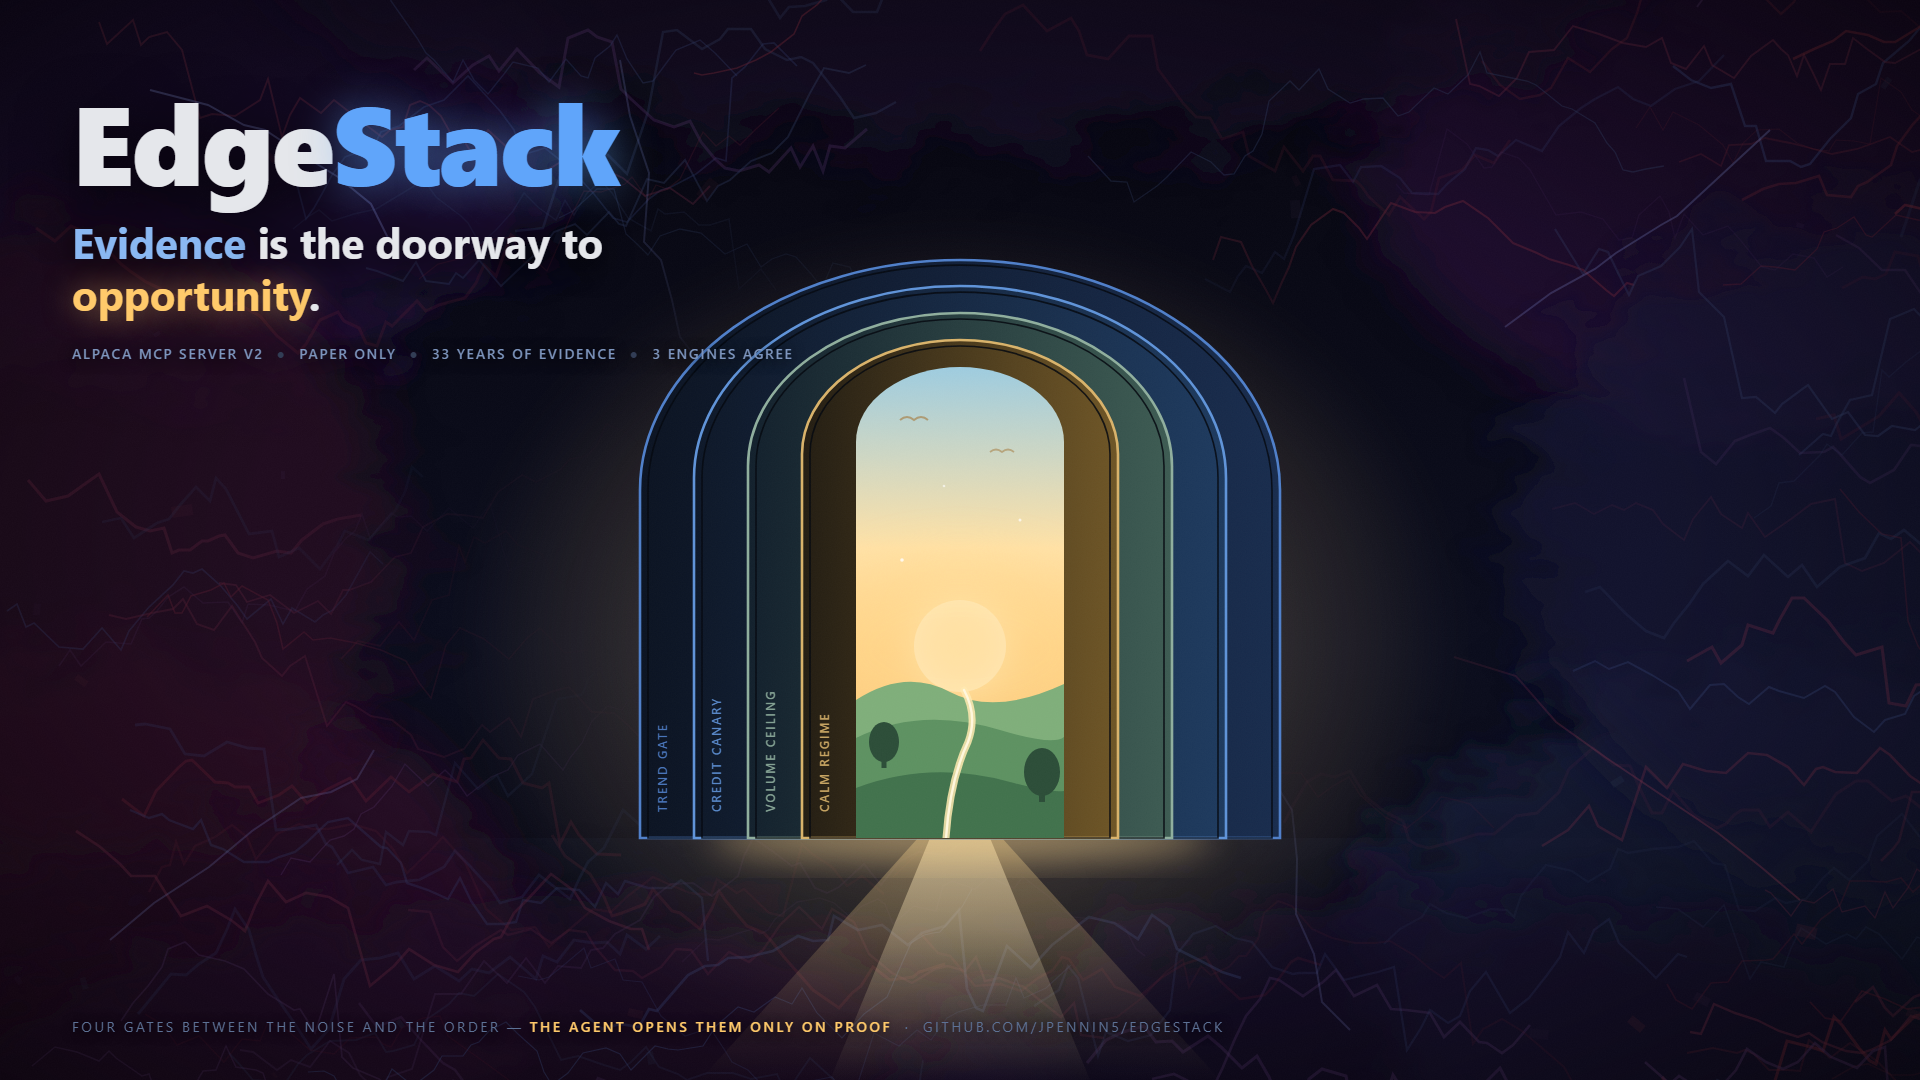
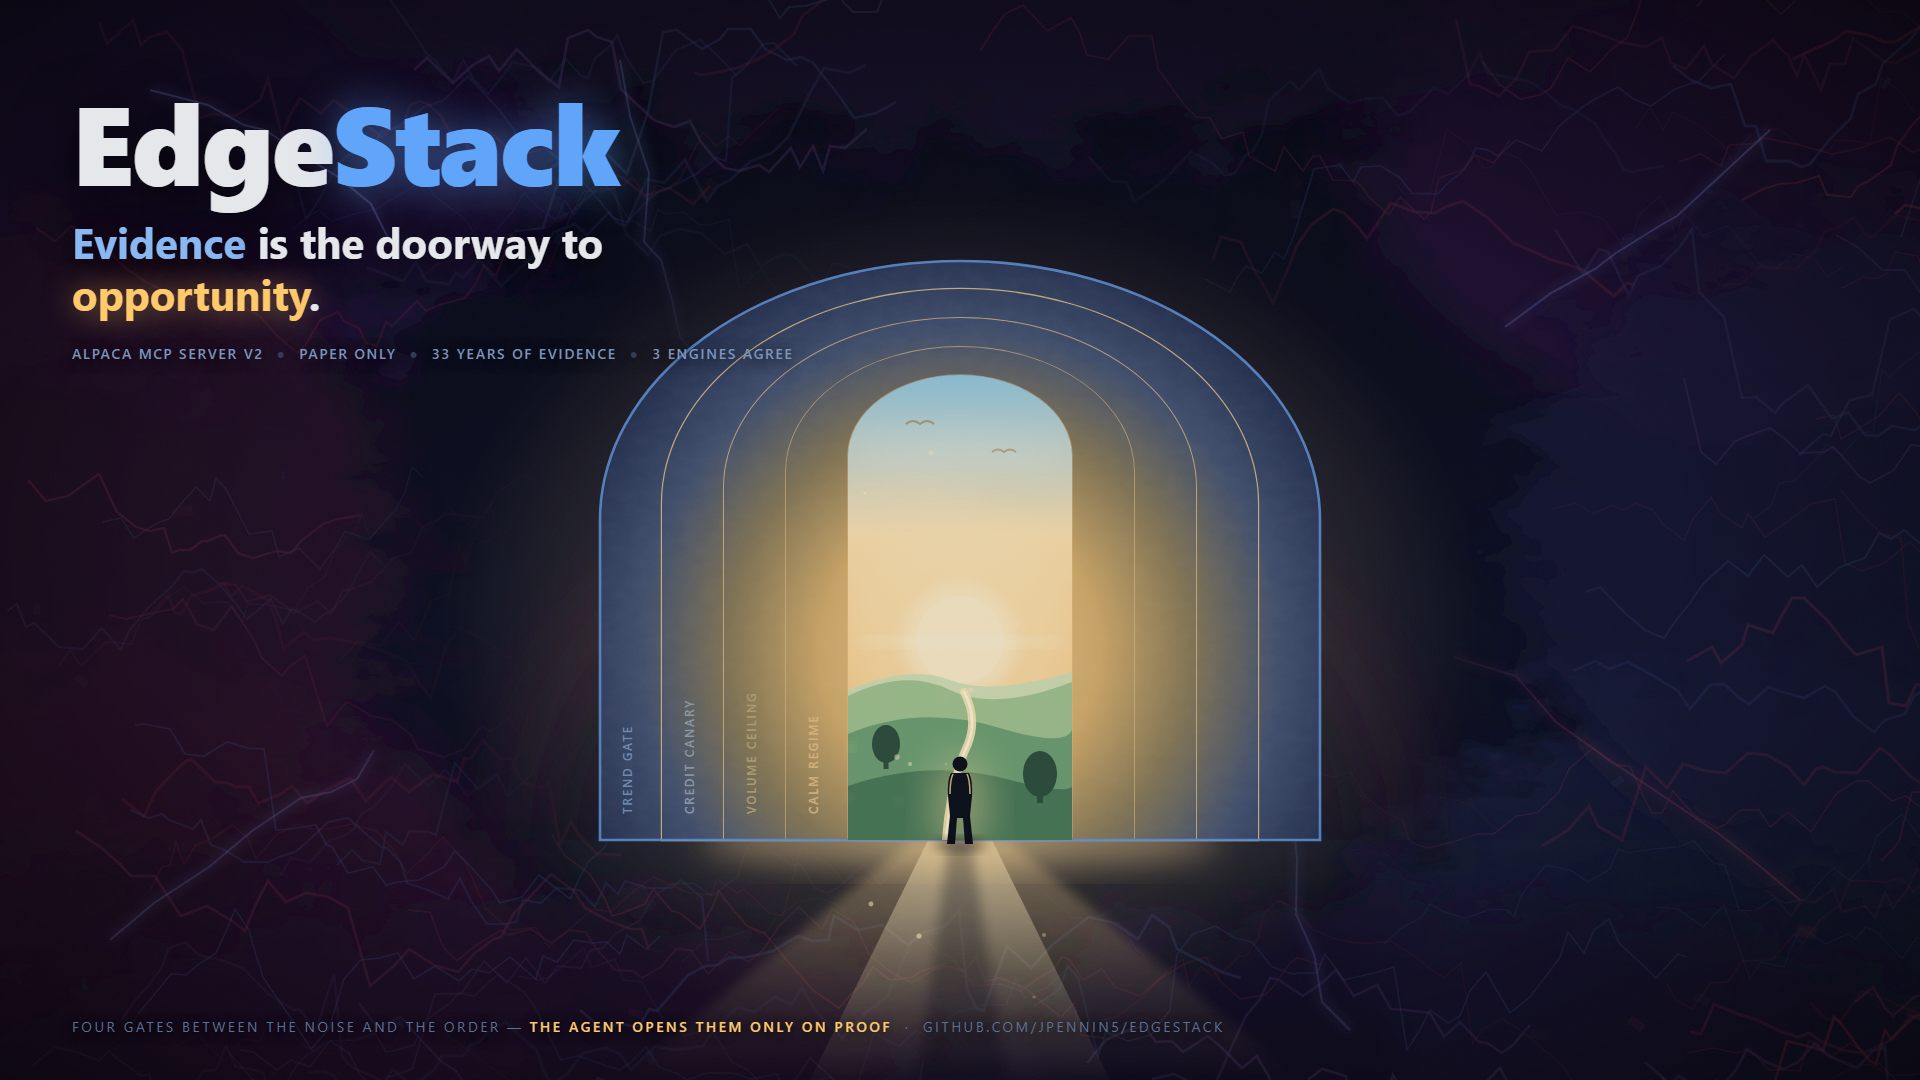
Cover: cinematic pass on the doorway scene
Same concept, poster craft: door-light rakes across the receding gate
rings (single radial tunnel gradient), glossy floor reflection, volumetric
spill with drifting motes, storm crescents hugging the arch, glowing
lightning, atmospheric valley with sun bloom and lens streak, stone
texture on the jambs, cinematic grade + vignette + grain - and a lone
figure at the threshold for monumental scale.

Changed region(s): [[0.3125, 0.2444, 0.6875, 0.9472]]

diff --git a/video/build_cover.py b/video/build_cover.py
@@ -1,10 +1,10 @@
 """Build docs/cover.png — the lablab submission hero (1920x1080).
 
-"Evidence is the doorway to opportunity": chaotic, unsettling market noise at the
-edges of the frame; a monumental doorway built from four nested gate-frames (the
-agent's real gates - trend, credit, volume, calm) cutting through the chaos; and
-through the opening, a warm promised-land valley. Pure SVG/CSS, rendered by
-headless Edge.
+"Evidence is the doorway to opportunity", cinematic pass: storm-wrapped chaos at the
+edges, a monumental four-gate portal with real tunnel depth (door-light raking across
+the receding rings), a glossy reflecting floor, volumetric light with drifting motes,
+a lush atmospheric valley through the opening, and a lone figure at the threshold for
+scale. Pure SVG/CSS, rendered by headless Edge.
 
     python video/build_cover.py
 """
@@ -19,7 +19,24 @@ EDGE = r"C:\Program Files (x86)\Microsoft\Edge\Application\msedge.exe"
 
 random.seed(11)
 
-# ---- chaos: jittery price-path scribbles + drifting shards, masked to the edges ----------
+CX, BASE = 960, 840
+INSETS = [0, 62, 124, 186, 248]          # frame boundaries; last = opening
+TOPS = [160, 206, 252, 298, 344]
+X0S = [600 + i for i in INSETS]
+X1S = [1320 - i for i in INSETS]
+GATE_NAMES = ["TREND GATE", "CREDIT CANARY", "VOLUME CEILING", "CALM REGIME"]
+GATE_INK = ["#7d9cc9", "#96abb9", "#c0ab74", "#ecc27e"]
+
+def arch(x0, x1, ytop, ybase, rev=False):
+    r = (x1 - x0) / 2
+    ry = r * 0.72
+    if not rev:
+        return (f"M {x0},{ybase} L {x0},{ytop + r:.0f} "
+                f"A {r:.0f},{ry:.0f} 0 0 1 {x1},{ytop + r:.0f} L {x1},{ybase} Z")
+    return (f"M {x1},{ybase} L {x1},{ytop + r:.0f} "
+            f"A {r:.0f},{ry:.0f} 0 0 0 {x0},{ytop + r:.0f} L {x0},{ybase} Z")
+
+# ---- chaos: price-path scribbles, shards, glowing bolts (edge-masked) --------------------
 scribbles = []
 for _ in range(96):
     edge = random.choice(["l", "r", "t", "b"])
@@ -37,10 +54,9 @@ for _ in range(96):
         y += random.uniform(-26, 26) * (3.2 if random.random() < 0.08 else 1)
         pts.append(f"{x:.0f},{y:.0f}")
     col = random.choice(["#7a2e4a", "#8f2f3f", "#40518a", "#5b3a72", "#3a4a74", "#6d2237"])
-    o = random.uniform(0.18, 0.50)
-    wdt = random.uniform(1.2, 3.2)
     scribbles.append(f"<polyline points='{' '.join(pts)}' fill='none' stroke='{col}' "
-                     f"stroke-width='{wdt:.1f}' opacity='{o:.2f}'/>")
+                     f"stroke-width='{random.uniform(1.2,3.2):.1f}' "
+                     f"opacity='{random.uniform(.18,.50):.2f}'/>")
 shards = []
 for _ in range(26):
     edge = random.choice(["l", "r", "t", "b"])
@@ -53,10 +69,9 @@ for _ in range(26):
     else:
         x, y = random.uniform(0, 1920), random.uniform(860, 1080)
     s = random.uniform(6, 22)
-    rot = random.uniform(0, 360)
-    col = random.choice(["#5f2a3d", "#31405f", "#3f2b52"])
     shards.append(f"<rect x='{x:.0f}' y='{y:.0f}' width='{s:.0f}' height='{s*0.55:.0f}' "
-                  f"transform='rotate({rot:.0f} {x:.0f} {y:.0f})' fill='{col}' "
+                  f"transform='rotate({random.uniform(0,360):.0f} {x:.0f} {y:.0f})' "
+                  f"fill='{random.choice(['#5f2a3d', '#31405f', '#3f2b52'])}' "
                   f"opacity='{random.uniform(.12,.30):.2f}'/>")
 bolts = []
 for bx, by, ang in ((150, 90, 40), (1770, 130, 140), (110, 940, -35),
@@ -68,8 +83,11 @@ for bx, by, ang in ((150, 90, 40), (1770, 130, 140), (110, 940, -35),
         y += math.sin(a) * random.uniform(28, 64) + random.uniform(-22, 22)
         pts.append(f"{x:.0f},{y:.0f}")
     col = random.choice(["#d14b66", "#8f9ae8", "#c46a8a"])
-    bolts.append(f"<polyline points='{' '.join(pts)}' fill='none' stroke='{col}' "
-                 f"stroke-width='2' opacity='{random.uniform(.28,.44):.2f}'/>")
+    p = " ".join(pts)
+    bolts.append(f"<polyline points='{p}' fill='none' stroke='{col}' stroke-width='9' "
+                 f"opacity='.16' filter='url(#blur6)'/>"
+                 f"<polyline points='{p}' fill='none' stroke='{col}' stroke-width='2' "
+                 f"opacity='{random.uniform(.30,.46):.2f}'/>")
 CHAOS_LINES = "".join(scribbles) + "".join(shards) + "".join(bolts)
 
 STORM = "".join(
@@ -81,66 +99,96 @@ STORM = "".join(
         (1450, 1120, 560, 220, "#170f2b", .75), (60, 540, 340, 320, "#2b1024", .7),
         (1870, 540, 350, 330, "#131636", .7)))
 
-# ---- the doorway: four nested gate-frames, cold blue outside -> warm gold inside ---------
-FRAMES = [  # x-inset from 640/1280, top y, edge color, engraving
-    (0,   170, "#4f7fc9", "TREND GATE"),
-    (54,  212, "#5f93d8", "CREDIT CANARY"),
-    (108, 254, "#8fae9d", "VOLUME CEILING"),
-    (162, 296, "#d8b26a", "CALM REGIME"),
-]
-OPEN_X0, OPEN_X1 = 640 + 216, 1280 - 216          # 856 .. 1064
-OPEN_TOP, BASE = 338, 838
+# storm crescents hugging the portal so the chaos wraps it
+HUG = (f"<path d='M 540,{BASE} A 420,340 0 0 1 1380,{BASE}' fill='none' stroke='#12081f' "
+       f"stroke-width='74' opacity='.55' filter='url(#blur24)'/>"
+       f"<path d='M 500,{BASE} A 460,380 0 0 1 1420,{BASE}' fill='none' stroke='#240f22' "
+       f"stroke-width='60' opacity='.45' filter='url(#blur24)'/>")
 
-def arch(x0, x1, ytop, ybase):
-    r = (x1 - x0) / 2
-    ry = r * 0.72
-    return (f"M {x0},{ybase} L {x0},{ytop + r:.0f} "
-            f"A {r:.0f},{ry:.0f} 0 0 1 {x1},{ytop + r:.0f} L {x1},{ybase} Z")
+# ---- the portal: rings lit by the door light ---------------------------------------------
+rings = []
+for i in range(4):
+    ring = (f"<path d='{arch(X0S[i], X1S[i], TOPS[i], BASE)} "
+            f"{arch(X0S[i+1], X1S[i+1], TOPS[i+1], BASE, rev=True)}' "
+            f"fill-rule='evenodd' fill='url(#tunnel)'/>")
+    rim_in = (f"<path d='{arch(X0S[i+1], X1S[i+1], TOPS[i+1], BASE)}' fill='none' "
+              f"stroke='#f0c987' stroke-width='{2.4 - i*0.3:.1f}' opacity='{.85 - i*.12:.2f}'/>")
+    label = (f"<text x='{X0S[i] + 32}' y='{BASE - 26}' font-size='11.5' letter-spacing='2.2' "
+             f"font-weight='600' fill='{GATE_INK[i]}' opacity='.92' "
+             f"transform='rotate(-90 {X0S[i] + 32} {BASE - 26})'>{GATE_NAMES[i]}</text>")
+    rings.append(ring + rim_in + label)
+FRAME_SVG = ("".join(rings)
+             + f"<path d='{arch(X0S[0], X1S[0], TOPS[0], BASE)}' fill='none' "
+               f"stroke='#5f93d8' stroke-width='2.6' opacity='.9'/>")
 
-frame_svg = []
-for i, (inset, ytop, edge, name) in enumerate(FRAMES):
-    x0, x1 = 640 + inset, 1280 - inset
-    yb = BASE
-    frame_svg.append(f"<path d='{arch(x0, x1, ytop, yb)}' fill='url(#jamb{i})' "
-                     f"stroke='{edge}' stroke-width='2.6'/>")
-    frame_svg.append(f"<path d='{arch(x0 + 8, x1 - 8, ytop + 8, yb)}' fill='none' "
-                     f"stroke='#05080f' stroke-width='1.6' opacity='.85'/>")
-    frame_svg.append(f"<text x='{x0 + 27}' y='{yb - 26}' font-size='11.5' letter-spacing='2.2' "
-                     f"font-weight='600' fill='{edge}' opacity='.9' "
-                     f"transform='rotate(-90 {x0 + 27} {yb - 26})'>{name}</text>")
-FRAME_SVG = "".join(frame_svg)
+# stone texture over the rings
+TEXTURE = (f"<g clip-path='url(#ringclip)'><rect x='560' y='120' width='800' height='760' "
+           f"filter='url(#stone)' opacity='.10'/></g>")
 
 # ---- paradise through the opening --------------------------------------------------------
+OX0, OX1, OTOP = X0S[4], X1S[4], TOPS[4]
 PARADISE = f"""
   <g clip-path='url(#doorclip)'>
-    <rect x='{OPEN_X0}' y='{OPEN_TOP}' width='{OPEN_X1-OPEN_X0}' height='{BASE-OPEN_TOP}' fill='url(#psky)'/>
-    <circle cx='960' cy='646' r='46' fill='#fff3d6'/>
-    <circle cx='960' cy='646' r='46' fill='#ffe9b8' filter='url(#blur18)'/>
-    <ellipse cx='960' cy='648' rx='150' ry='90' fill='#ffd98f' opacity='.5' filter='url(#blur24)'/>
-    <path d='M {OPEN_X0},700 Q 905,668 950,692 T {OPEN_X1},684 L {OPEN_X1},{BASE} L {OPEN_X0},{BASE} Z' fill='#7fae7a'/>
-    <path d='M {OPEN_X0},738 Q 920,706 1000,730 T {OPEN_X1},722 L {OPEN_X1},{BASE} L {OPEN_X0},{BASE} Z' fill='#5d9161'/>
-    <path d='M {OPEN_X0},788 Q 930,760 1010,782 T {OPEN_X1},774 L {OPEN_X1},{BASE} L {OPEN_X0},{BASE} Z' fill='#41724c'/>
-    <path d='M 946,{BASE} Q 950,780 968,742 Q 978,716 964,690' stroke='#ffe9b0' stroke-width='7'
-          fill='none' opacity='.85' stroke-linecap='round'/>
-    <path d='M 946,{BASE} Q 950,780 968,742 Q 978,716 964,690' stroke='#fff7dd' stroke-width='2.4'
+    <rect x='{OX0}' y='{OTOP}' width='{OX1-OX0}' height='{BASE-OTOP}' fill='url(#psky)'/>
+    <ellipse cx='960' cy='450' rx='120' ry='26' fill='#ffffff' opacity='.20' filter='url(#blur18)'/>
+    <ellipse cx='905' cy='500' rx='90' ry='18' fill='#ffe9c8' opacity='.25' filter='url(#blur18)'/>
+    <circle cx='960' cy='640' r='120' fill='#ffe9b8' opacity='.55' filter='url(#blur24)'/>
+    <circle cx='960' cy='640' r='44' fill='#fff6de'/>
+    <circle cx='960' cy='640' r='58' fill='#ffedc2' opacity='.8' filter='url(#blur6)'/>
+    <ellipse cx='960' cy='642' rx='108' ry='3.5' fill='#fff7dd' opacity='.6' filter='url(#blur6)'/>
+    <path d='M {OX0},690 Q 910,664 950,680 T {OX1},672 L {OX1},700 L {OX0},700 Z' fill='#cfe0b4' opacity='.9'/>
+    <path d='M {OX0},696 Q 905,668 950,690 T {OX1},682 L {OX1},{BASE} L {OX0},{BASE} Z' fill='#a3c48d'/>
+    <path d='M {OX0},734 Q 920,704 1000,728 T {OX1},720 L {OX1},{BASE} L {OX0},{BASE} Z' fill='#6fa06f'/>
+    <path d='M {OX0},786 Q 930,758 1010,780 T {OX1},772 L {OX1},{BASE} L {OX0},{BASE} Z' fill='#487a52'/>
+    <path d='M 946,{BASE} Q 950,782 968,744 Q 978,718 964,692' stroke='#ffe9b0' stroke-width='8'
+          fill='none' opacity='.9' stroke-linecap='round'/>
+    <path d='M 946,{BASE} Q 950,782 968,744 Q 978,718 964,692' stroke='#fff9e6' stroke-width='2.6'
           fill='none' stroke-linecap='round'/>
     <g fill='#2c4d38'>
-      <ellipse cx='884' cy='742' rx='15' ry='20'/><rect x='881.5' y='752' width='5' height='16'/>
-      <ellipse cx='1042' cy='772' rx='18' ry='24'/><rect x='1039' y='784' width='6' height='18'/>
+      <ellipse cx='886' cy='744' rx='14' ry='19'/><rect x='883.5' y='754' width='5' height='15'/>
+      <ellipse cx='1040' cy='774' rx='17' ry='23'/><rect x='1037' y='786' width='6' height='17'/>
     </g>
-    <path d='M 900 420 q 7 -6 14 0 q 7 -6 14 0' stroke='#a8834d' stroke-width='2' fill='none' opacity='.7'/>
-    <path d='M 990 452 q 6 -5 12 0 q 6 -5 12 0' stroke='#a8834d' stroke-width='1.7' fill='none' opacity='.6'/>
-    <circle cx='902' cy='560' r='1.8' fill='#fff' opacity='.8'/>
-    <circle cx='1020' cy='520' r='1.5' fill='#fff' opacity='.7'/>
-    <circle cx='944' cy='486' r='1.3' fill='#fff' opacity='.6'/>
+    <path d='M 906 424 q 7 -6 14 0 q 7 -6 14 0' stroke='#a8834d' stroke-width='2' fill='none' opacity='.7'/>
+    <path d='M 992 452 q 6 -5 12 0 q 6 -5 12 0' stroke='#a8834d' stroke-width='1.7' fill='none' opacity='.6'/>
   </g>"""
 
-# ---- light spilling out of the doorway ---------------------------------------------------
+# ---- volumetric light, motes, threshold --------------------------------------------------
+motes = []
+for _ in range(30):
+    mx = random.uniform(850, 1070) + random.uniform(-40, 40)
+    my = random.uniform(420, 1020)
+    r = random.uniform(1.0, 2.8)
+    blur = " filter='url(#blur6)'" if random.random() < 0.35 else ""
+    motes.append(f"<circle cx='{mx:.0f}' cy='{my:.0f}' r='{r:.1f}' fill='#ffe9b8' "
+                 f"opacity='{random.uniform(.25,.75):.2f}'{blur}/>")
+MOTES = "".join(motes)
+
 SPILL = f"""
-  <ellipse cx='960' cy='640' rx='500' ry='420' fill='url(#gold)' opacity='.42' filter='url(#blur24)'/>
-  <polygon points='918,{BASE} 700,1080 1220,1080 1002,{BASE}' fill='url(#pathlight)'/>
-  <polygon points='930,{BASE} 830,1080 1090,1080 990,{BASE}' fill='url(#pathcore)'/>
-  <ellipse cx='960' cy='{BASE}' rx='250' ry='22' fill='#ffd98f' opacity='.5' filter='url(#blur18)'/>"""
+  <ellipse cx='960' cy='620' rx='520' ry='430' fill='url(#gold)' opacity='.45' filter='url(#blur24)'/>
+  <ellipse cx='960' cy='600' rx='170' ry='280' fill='#ffe9b8' opacity='.22' filter='url(#blur24)'/>
+  <polygon points='912,{BASE} 620,1080 1300,1080 1008,{BASE}' fill='url(#pathlight)' filter='url(#blur6)'/>
+  <polygon points='928,{BASE} 810,1080 1110,1080 992,{BASE}' fill='url(#pathcore)'/>
+  <ellipse cx='960' cy='{BASE}' rx='260' ry='24' fill='#ffd98f' opacity='.55' filter='url(#blur18)'/>"""
+
+# ---- the figure at the threshold ---------------------------------------------------------
+FIGURE = f"""
+  <ellipse cx='960' cy='806' rx='30' ry='52' fill='#ffdf9e' opacity='.4' filter='url(#blur18)'/>
+  <polygon points='948,{BASE+6} 972,{BASE+6} 1006,1080 918,1080' fill='#04050a' opacity='.30' filter='url(#blur6)'/>
+  <g fill='#0a0d15'>
+    <circle cx='960' cy='764' r='7.5'/>
+    <path d='M 951,773 Q 947,780 948,796 L 950,816 L 947,{BASE+4} L 955,{BASE+4} L 957,818
+             L 963,818 L 965,{BASE+4} L 973,{BASE+4} L 970,816 L 972,796 Q 973,780 969,773 Z'/>
+  </g>
+  <path d='M 953,774 Q 950,780 950,794' stroke='#ffd98f' stroke-width='1.6' fill='none' opacity='.8'/>
+  <path d='M 967,774 Q 970,780 970,794' stroke='#ffd98f' stroke-width='1.6' fill='none' opacity='.8'/>
+  <ellipse cx='960' cy='{BASE+5}' rx='26' ry='5' fill='#050608' opacity='.6' filter='url(#blur6)'/>"""
+
+# ---- floor reflection of the portal ------------------------------------------------------
+REFLECT = f"""
+  <g transform='translate(0,{2*BASE}) scale(1,-1)' mask='url(#reflmask)' opacity='.30'
+     filter='url(#blur6)'>
+    {FRAME_SVG}{PARADISE}
+  </g>"""
 
 SVG = f"""
 <svg width='1920' height='1080' viewBox='0 0 1920 1080' xmlns='http://www.w3.org/2000/svg'
@@ -152,25 +200,21 @@ SVG = f"""
       <stop offset='1' stop-color='#0a0913'/>
     </linearGradient>
     <linearGradient id='floor' x1='0' y1='0' x2='0' y2='1'>
-      <stop offset='0' stop-color='#0d0f1e'/>
-      <stop offset='1' stop-color='#050409'/>
+      <stop offset='0' stop-color='#10121f'/>
+      <stop offset='1' stop-color='#040308'/>
     </linearGradient>
-    <linearGradient id='jamb0' x1='0' y1='0' x2='1' y2='0'>
-      <stop offset='0' stop-color='#0b1322'/><stop offset='1' stop-color='#182c4d'/>
-    </linearGradient>
-    <linearGradient id='jamb1' x1='0' y1='0' x2='1' y2='0'>
-      <stop offset='0' stop-color='#0d1728'/><stop offset='1' stop-color='#1e3a5e'/>
-    </linearGradient>
-    <linearGradient id='jamb2' x1='0' y1='0' x2='1' y2='0'>
-      <stop offset='0' stop-color='#12202c'/><stop offset='1' stop-color='#3d5b52'/>
-    </linearGradient>
-    <linearGradient id='jamb3' x1='0' y1='0' x2='1' y2='0'>
-      <stop offset='0' stop-color='#231d12'/><stop offset='1' stop-color='#6e5526'/>
-    </linearGradient>
+    <radialGradient id='tunnel' cx='960' cy='650' r='500' gradientUnits='userSpaceOnUse'>
+      <stop offset='0' stop-color='#f7d896'/>
+      <stop offset='.28' stop-color='#d8ae66'/>
+      <stop offset='.46' stop-color='#8a7a52'/>
+      <stop offset='.64' stop-color='#41506e'/>
+      <stop offset='.84' stop-color='#1c2846'/>
+      <stop offset='1' stop-color='#101a30'/>
+    </radialGradient>
     <linearGradient id='psky' x1='0' y1='0' x2='0' y2='1'>
-      <stop offset='0' stop-color='#8ec8e8'/>
-      <stop offset='.42' stop-color='#ffe1a6'/>
-      <stop offset='.62' stop-color='#ffcf82'/>
+      <stop offset='0' stop-color='#7fc4e8'/>
+      <stop offset='.38' stop-color='#ffe3ae'/>
+      <stop offset='.60' stop-color='#ffd188'/>
       <stop offset='1' stop-color='#f2b968'/>
     </linearGradient>
     <radialGradient id='gold' cx='.5' cy='.5' r='.5'>
@@ -178,40 +222,52 @@ SVG = f"""
       <stop offset='1' stop-color='#ffd98f' stop-opacity='0'/>
     </radialGradient>
     <linearGradient id='pathlight' x1='0' y1='0' x2='0' y2='1'>
-      <stop offset='0' stop-color='#ffd98f' stop-opacity='.34'/>
+      <stop offset='0' stop-color='#ffd98f' stop-opacity='.36'/>
       <stop offset='1' stop-color='#ffd98f' stop-opacity='0'/>
     </linearGradient>
     <linearGradient id='pathcore' x1='0' y1='0' x2='0' y2='1'>
-      <stop offset='0' stop-color='#ffe9b8' stop-opacity='.5'/>
-      <stop offset='1' stop-color='#ffe9b8' stop-opacity='.02'/>
+      <stop offset='0' stop-color='#ffe9b8' stop-opacity='.55'/>
+      <stop offset='1' stop-color='#ffe9b8' stop-opacity='.03'/>
     </linearGradient>
     <radialGradient id='vig' cx='.5' cy='.5' r='.72'>
-      <stop offset='.5' stop-color='#000' stop-opacity='0'/>
-      <stop offset='1' stop-color='#000' stop-opacity='.62'/>
+      <stop offset='.48' stop-color='#000' stop-opacity='0'/>
+      <stop offset='1' stop-color='#000' stop-opacity='.66'/>
     </radialGradient>
     <radialGradient id='edgeonly' cx='.5' cy='.52' r='.62'>
       <stop offset='.32' stop-color='#000'/>
       <stop offset='.60' stop-color='#999'/>
       <stop offset='1' stop-color='#fff'/>
     </radialGradient>
-    <clipPath id='doorclip'>
-      <path d='{arch(OPEN_X0, OPEN_X1, OPEN_TOP, BASE)}'/>
-    </clipPath>
-    <mask id='edges'>
-      <rect width='1920' height='1080' fill='url(#edgeonly)'/>
+    <linearGradient id='reflfade' x1='0' y1='{BASE}' x2='0' y2='1010'
+                    gradientUnits='userSpaceOnUse'>
+      <stop offset='0' stop-color='#fff'/>
+      <stop offset='1' stop-color='#000'/>
+    </linearGradient>
+    <mask id='reflmask'>
+      <rect x='0' y='{BASE}' width='1920' height='{1080-BASE}' fill='url(#reflfade)'/>
     </mask>
+    <clipPath id='doorclip'><path d='{arch(OX0, OX1, OTOP, BASE)}'/></clipPath>
+    <clipPath id='ringclip'><path d='{arch(X0S[0], X1S[0], TOPS[0], BASE)}'/></clipPath>
+    <mask id='edges'><rect width='1920' height='1080' fill='url(#edgeonly)'/></mask>
     <filter id='storm' x='-60%' y='-60%' width='220%' height='220%'>
-      <feTurbulence type='fractalNoise' baseFrequency='0.012 0.02' numOctaves='3' seed='4' result='t'/>
+      <feTurbulence type='fractalNoise' baseFrequency='0.012 0.02' numOctaves='4' seed='4' result='t'/>
       <feGaussianBlur in='SourceGraphic' stdDeviation='28' result='b'/>
-      <feDisplacementMap in='b' in2='t' scale='120'/>
+      <feDisplacementMap in='b' in2='t' scale='140'/>
     </filter>
+    <filter id='stone' x='-20%' y='-20%' width='140%' height='140%'>
+      <feTurbulence type='fractalNoise' baseFrequency='0.06 0.09' numOctaves='3' seed='9'/>
+      <feColorMatrix type='matrix' values='0 0 0 0 .85  0 0 0 0 .78  0 0 0 0 .62  0 0 0 .5 0'/>
+      <feComposite operator='in' in2='SourceGraphic'/>
+    </filter>
+    <filter id='blur6' x='-60%' y='-60%' width='220%' height='220%'>
+      <feGaussianBlur stdDeviation='6'/></filter>
     <filter id='blur18' x='-40%' y='-40%' width='180%' height='180%'>
       <feGaussianBlur stdDeviation='18'/></filter>
     <filter id='blur24' x='-60%' y='-60%' width='220%' height='220%'>
       <feGaussianBlur stdDeviation='24'/></filter>
     <filter id='grain'>
       <feTurbulence type='fractalNoise' baseFrequency='0.8' numOctaves='2' stitchTiles='stitch'/>
-      <feColorMatrix type='matrix' values='0 0 0 0 1  0 0 0 0 1  0 0 0 0 1  0 0 0 .04 0'/>
+      <feColorMatrix type='matrix' values='0 0 0 0 1  0 0 0 0 1  0 0 0 0 1  0 0 0 .045 0'/>
     </filter>
   </defs>
 
@@ -219,9 +275,15 @@ SVG = f"""
   <rect y='{BASE}' width='1920' height='{1080-BASE}' fill='url(#floor)'/>
   {STORM}
   <g mask='url(#edges)'>{CHAOS_LINES}</g>
+  {HUG}
+  {REFLECT}
   {SPILL}
   {FRAME_SVG}
+  {TEXTURE}
   {PARADISE}
+  {MOTES}
+  {FIGURE}
+  <rect width='1920' height='1080' fill='#1a2b4a' opacity='.10'/>
   <rect width='1920' height='1080' fill='url(#vig)'/>
   <rect width='1920' height='1080' filter='url(#grain)' opacity='.55'/>
 </svg>"""
